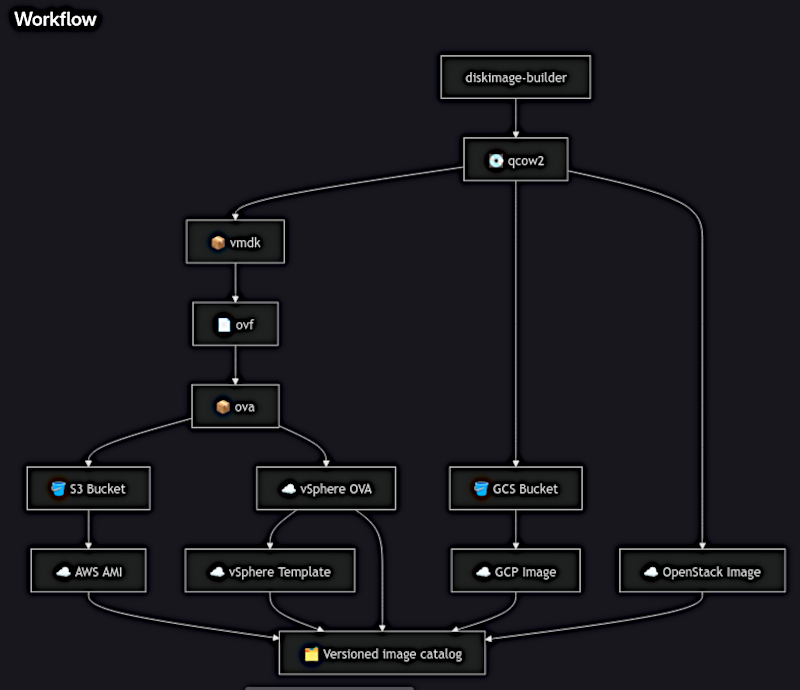
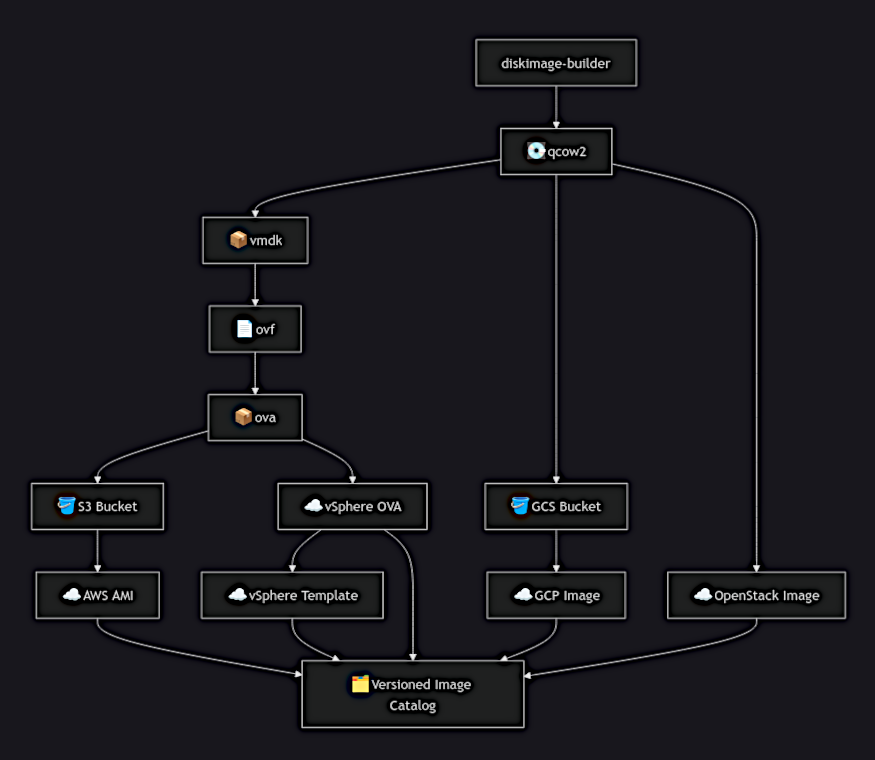
v0.6.1
add recreate-vsphere-template.yml
tighten up import-ova-vsphere-template.ps1
fix workflow typos
remove openSUSE
update docs

Changed region(s): [[0.0312, 0.0304, 1.0, 1.0], [0.0, 0.0, 0.125, 0.0609]]

diff --git a/README.md b/README.md
@@ -29,7 +29,7 @@ flowchart TB
     S3 --> AWS_IMG["☁ AWS AMI"]
     OVA --> VSPHERE_IMG["☁ vSphere OVA"]
     VSPHERE_IMG --> VSPHERE_TPL["☁ vSphere Template"]
-    AWS_IMG --> CATALOG["🗂 Versioned image catalog"]
+    AWS_IMG --> CATALOG["🗂 Versioned Image Catalog"]
     GCP_IMG --> CATALOG
     OPENSTACK_IMG --> CATALOG
     VSPHERE_IMG --> CATALOG
@@ -69,9 +69,6 @@ Current provider-supported operating systems:
 - Fedora 41-43
 - CentOS Stream 9
 - RHEL, Rocky Linux, and Oracle Linux through 10.1
-- SLES 15 SP1-SP6
-- Older CentOS, Fedora, SLES 11, and SLES 12 releases are EOL even where
-  still listed by AWS
 - Windows Server through 2025
 
 DIB7 target notes: `ubuntu24044` matches AWS import support, and
@@ -91,7 +88,6 @@ Current provider-supported operating systems:
 - RHEL 7.9, 8.0-8.10, 9.0-9.7, and 10.0-10.2
 - Rocky Linux 8.4-8.10, 9.0-9.7, and 10.0-10.1
 - AlmaLinux 8.3-8.10, 9.0-9.8, and 10.0-10.2
-- SLES 12 SP5, 15 SP5-SP7, and 16
 - Windows Server through 2025
 
 DIB7 target notes: `ubuntu24044`, `ubuntu26041`, `debian1306`, and `centos10s`
@@ -110,7 +106,7 @@ destination cloud's image policy and compute driver.
 #### VMware vSphere
 
 The guest OS guide lists Debian 13, Ubuntu through 25.10, RHEL 10, Rocky
-Linux 10, Oracle Linux 10, AlmaLinux 10, SLES 16, Amazon Linux 2, and Windows
+Linux 10, Oracle Linux 10, AlmaLinux 10, Amazon Linux 2, and Windows
 Server 2025. Fedora support is limited to older Fedora desktop entries in the
 VMware guide.
 
@@ -336,6 +332,7 @@ dib7/
 - `import-ova-vsphere.yml`: Import OVA to vSphere content library.
   This produces the `vSphere OVA` branch in the workflow.
   Dependencies: pwsh, PowerCLI.
+- `recreate-vsphere-template.yml`: Recreate a vSphere template from an OVA already in the content library; no local upload is required. Dependencies: pwsh, PowerCLI.
 - `import-ova-vsphere-template.yml`: Import the vSphere OVA and create
   a vSphere template in `Templates`.
   Dependencies: pwsh, PowerCLI.

diff --git a/doc/playbooks-overview.md b/doc/playbooks-overview.md
@@ -37,6 +37,7 @@ build to a cloud-ready artifact.
 - **OpenStack**: Direct import of QCOW2 via `import-qcow2-openstack.yml`.
 - **vSphere**: Deploy the `vSphere OVA` via `import-ova-vsphere.yml`, or
   create a `vSphere Template` via `import-ova-vsphere-template.yml`.
+  To recreate an existing template from its library OVA, run `recreate-vsphere-template.yml`.
 
 Every successful import also publishes its provider-specific artifact ID to
 `catalogs/image-catalog.json`. See [image-catalog.md](image-catalog.md).
@@ -71,6 +72,7 @@ Included with `include_tasks`, never run standalone. `ansible-playbook
 - **`import-ova-vsphere.yml`** (vSphere): Deploys OVA to vCenter content
   library. This is the `vSphere OVA` branch in the workflow diagram; the
   template playbook produces the `vSphere Template` branch.
+- **`recreate-vsphere-template.yml`** (vSphere): Recreates a template from an OVA already in the content library without uploading a local OVA.
 - **`import-ova-vsphere-template.yml`** (vSphere): Deploys the OVA and converts
   it into a template in the `Templates` folder — the `vSphere Template` branch.
 - **`import-ova-aws.yml`** (AWS): Imports OVA as AMI via VM Import/Export.

diff --git a/doc/group-vars-distro.md b/doc/group-vars-distro.md
@@ -121,7 +121,7 @@ image is built, conditionally on `add_swap`.
 | `vm_network`              | `VM Network`                   | Network name written into the OVF `NetworkSection`.                                          |
 | `vm_os_description`       | e.g. `Ubuntu Linux (64-bit)`   | Human-readable OS description written into the OVF `OperatingSystemSection`.                 |
 | `vsphere_content_library` | `Content_Library`              | Target vSphere content library for `import-ova-vsphere.yml` when creating the `vSphere OVA`. |
-| `vsphere_template_name`   | `inventory_hostname-base.tmpl` | Final vSphere template name used by `playbooks/import-ova-vsphere-template.yml`.             |
+| `vsphere_template_name`   | `inventory_hostname-base.tmpl` | Final vSphere template name used by `playbooks/import-ova-vsphere-template.yml` and `playbooks/recreate-vsphere-template.yml`.             |
 
 <!-- markdownlint-enable MD013 -->
 

diff --git a/doc/vaults.md b/doc/vaults.md
@@ -115,4 +115,4 @@ vsphere_template_name: "inventory-item-base.tmpl"
 
 `vsphere_content_library` is used by `import-ova-vsphere.yml` to create the
 `vSphere OVA`, and `vsphere_template_name` is used by
-`import-ova-vsphere-template.yml` to create the `vSphere Template`.
+`import-ova-vsphere-template.yml` to create the `vSphere Template`, or `recreate-vsphere-template.yml` to recreate it from an existing library OVA.

diff --git a/doc/aws-supported-images.md b/doc/aws-supported-images.md
@@ -69,14 +69,6 @@ Note that Fedora 44 is not yet listed, which `fedora44` builds.
 - Rocky Linux 9.0–9.7 — 5.14.0
 - Rocky Linux 10.0–10.1 — 6.12.0
 
-## SUSE Linux Enterprise Server (SLES)
-
-- SLES 15 SP1 — 4.12
-- SLES 15 SP2, SP3 — 5.3
-- SLES 15 SP4, SP5 — 5.14.21
-- SLES 15 SP6 — 6.4
-- SLES 11 and 12 are EOL per AWS
-
 ## Ubuntu
 
 - Ubuntu 18.04 — 4.15.0, 5.4.0

diff --git a/doc/workflow.md b/doc/workflow.md
@@ -15,7 +15,7 @@ flowchart TB
     S3 --> AWS_IMG["☁ AWS AMI"]
     OVA --> VSPHERE_IMG["☁ vSphere OVA"]
     VSPHERE_IMG --> VSPHERE_TPL["☁ vSphere Template"]
-    AWS_IMG --> CATALOG["🗂 Versioned image catalog"]
+    AWS_IMG --> CATALOG["🗂 Versioned Image Catalog"]
     GCP_IMG --> CATALOG
     OPENSTACK_IMG --> CATALOG
     VSPHERE_IMG --> CATALOG

diff --git a/doc/gcp-supported-images.md b/doc/gcp-supported-images.md
@@ -59,12 +59,6 @@ Standard and SAP variants are both listed.
 - Rocky Linux 9.0–9.7
 - Rocky Linux 10.0–10.1
 
-## SLES
-
-- SLES 12 SP5
-- SLES 15 SP5–SP7
-- SLES 16
-
 ## Ubuntu
 
 - Ubuntu 22.04
